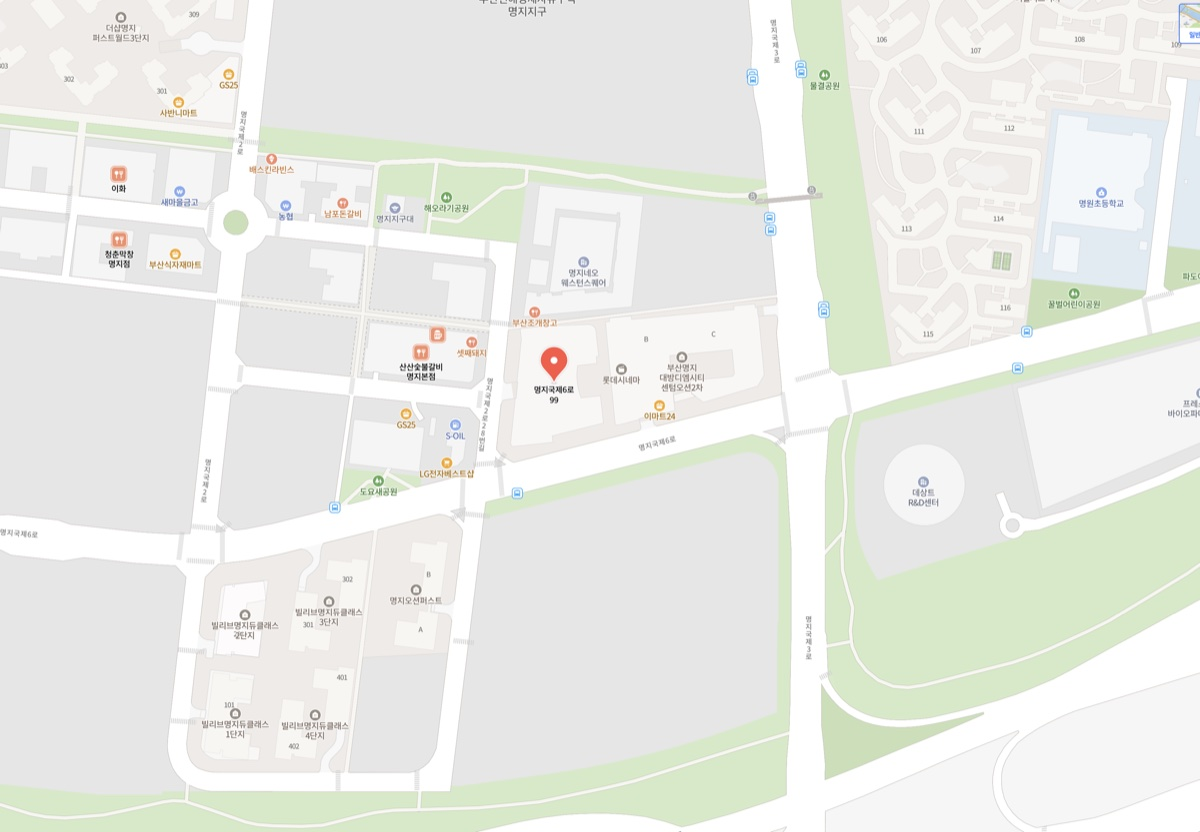
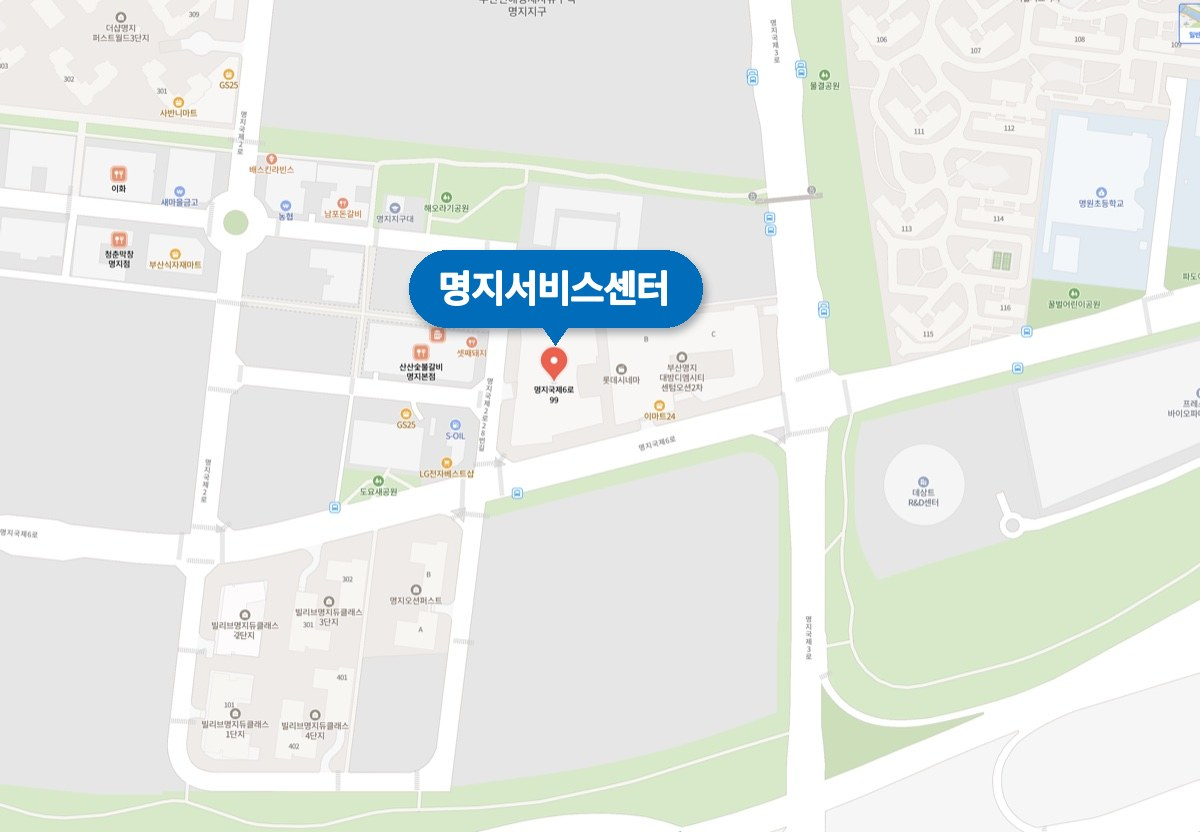
명지 지도에 '명지서비스센터' 라벨 핀(말풍선) 추가 — 진해 핀과 동일 스타일

Changed region(s): [[0.3392, 0.2812, 0.6167, 0.4062]]

diff --git a/location.html b/location.html
@@ -72,7 +72,7 @@
         <div class="branch-body">
           <div class="map">
             <a href="https://map.naver.com/p/search/부산 강서구 명지국제6로 99 귀인보청기" target="_blank" rel="noopener" title="지도에서 보기">
-              <img src="images/map-myeongji.jpg" alt="명지서비스센터 위치 지도 — 부산시 강서구 명지국제6로 99 (부산명지대방디엠시티센텀오션 1차)">
+              <img src="images/map-myeongji.jpg?v=2" alt="명지서비스센터 위치 지도 — 부산시 강서구 명지국제6로 99 (부산명지대방디엠시티센텀오션 1차)">
             </a>
           </div>
           <div class="branch-info">
